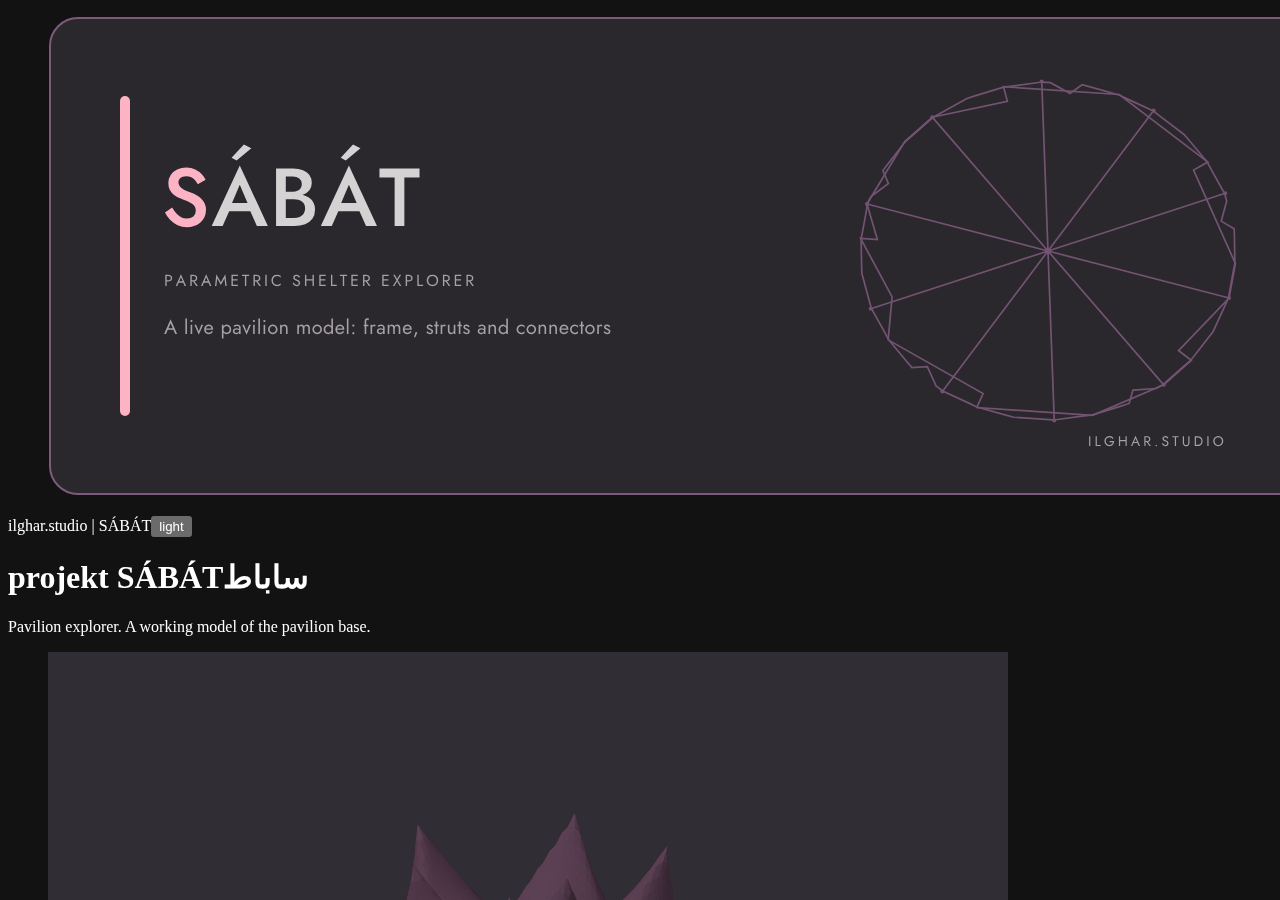
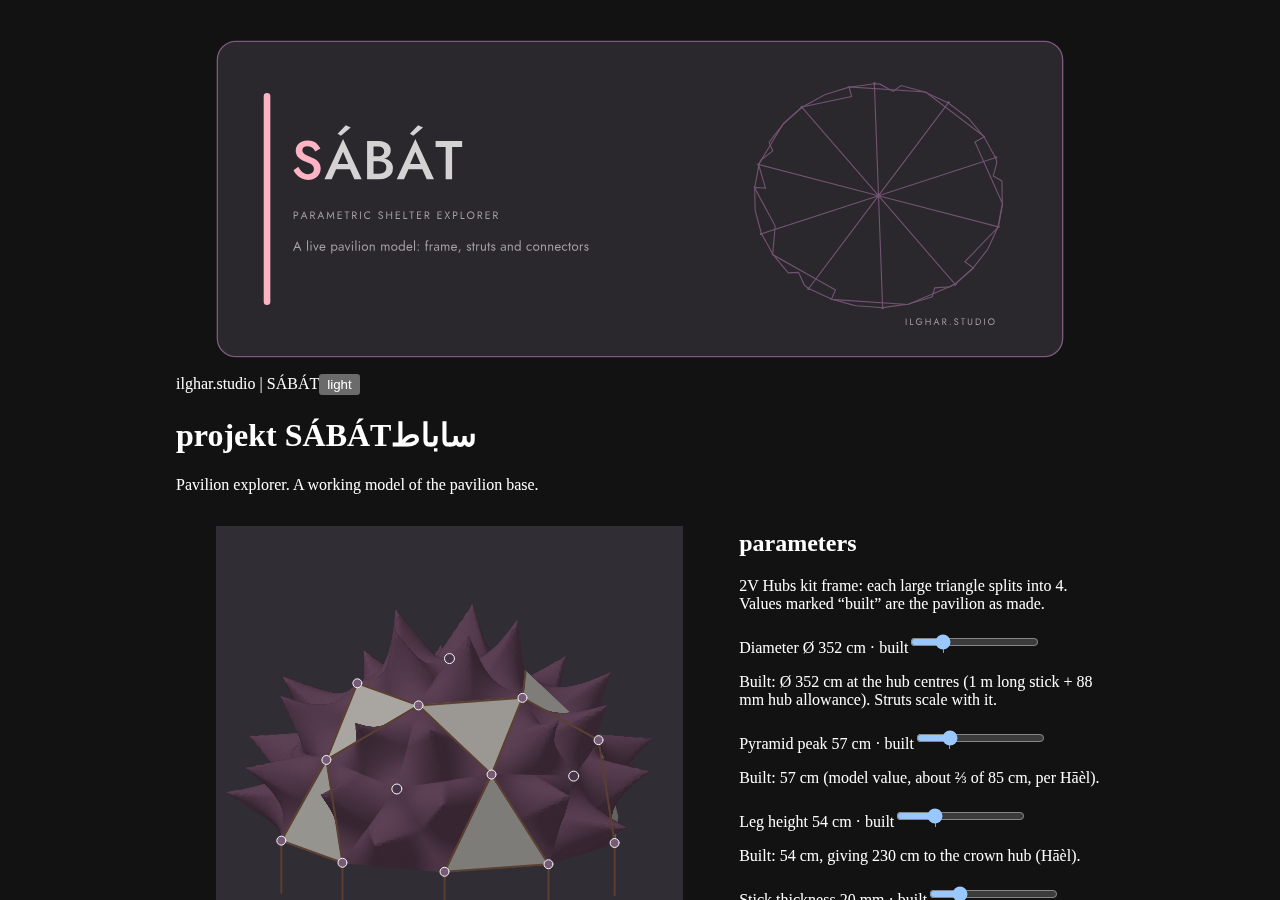
fix(demos/sabat): drop Fuller quote, dome→pavilion/frame; demo.css column; reshoot

diff --git a/public/demos/sabat/index.html b/public/demos/sabat/index.html
@@ -4,6 +4,7 @@
 <meta charset="utf-8">
 <meta name="viewport" content="width=device-width, initial-scale=1">
 <link rel="stylesheet" href="../../design/tokens.css">
+<link rel="stylesheet" href="demo.css">
 <style>
 @font-face{font-family:"Jost";font-style:normal;font-weight:300;font-display:swap;src:url("../../fonts/jost-latin-ext-300-normal.woff2") format("woff2");unicode-range:U+0100-02BA,U+02BD-02C5,U+02C7-02CC,U+02CE-02D7,U+02DD-02FF,U+0304,U+0308,U+0329,U+1D00-1DBF,U+1E00-1E9F,U+1EF2-1EFF,U+2020,U+20A0-20AB,U+20AD-20C0,U+2113,U+2C60-2C7F,U+A720-A7FF}
 @font-face{font-family:"Jost";font-style:normal;font-weight:300;font-display:swap;src:url("../../fonts/jost-latin-300-normal.woff2") format("woff2");unicode-range:U+0000-00FF,U+0131,U+0152-0153,U+02BB-02BC,U+02C6,U+02DA,U+02DC,U+0304,U+0308,U+0329,U+2000-206F,U+20AC,U+2122,U+2191,U+2193,U+2212,U+2215,U+FEFF,U+FFFD}
@@ -13,6 +14,18 @@
 @font-face{font-family:"Jost";font-style:normal;font-weight:500;font-display:swap;src:url("../../fonts/jost-latin-500-normal.woff2") format("woff2");unicode-range:U+0000-00FF,U+0131,U+0152-0153,U+02BB-02BC,U+02C6,U+02DA,U+02DC,U+0304,U+0308,U+0329,U+2000-206F,U+20AC,U+2122,U+2191,U+2193,U+2212,U+2215,U+FEFF,U+FFFD}
 @font-face{font-family:"Vazirmatn";font-style:normal;font-weight:100 900;font-display:swap;src:url("../../fonts/vazirmatn-fa.woff2") format("woff2");unicode-range:U+0600-06FF,U+200C-200D,U+FB50-FDFF,U+FE70-FEFF}
 img,svg,canvas,iframe{max-width:100%;height:auto}
+img,svg,canvas,iframe,figure{max-width:100%;height:auto}canvas#iso{width:100%!important;max-width:100%!important;height:auto!important}
+.hero img{width:100%;max-width:100%;height:auto}
+body,main{overflow-x:hidden;max-width:100%}
+.app{max-width:100%}
+picture,.hero-card{display:block;max-width:100%;width:100%;overflow:hidden}
+.hero-card img,picture img{max-width:100%!important;width:100%!important;height:auto!important}
+main{overflow-x:hidden;box-sizing:border-box}
+/* nuclear column */
+html,body{width:100%;max-width:100%;overflow-x:hidden}
+main{width:100%!important;max-width:960px!important;box-sizing:border-box!important;overflow-x:hidden}
+.hero-card,picture,.hero,figure,.app,.main3d,.panel,.intro,.conn{max-width:100%!important;width:100%;box-sizing:border-box}
+img,svg,canvas,iframe,video{max-width:100%!important;height:auto}
 </style>
 <title>SÁBÁT · pavilion explorer · ilghar.studio</title>
 <style>
@@ -22,7 +35,7 @@ img,svg,canvas,iframe{max-width:100%;height:auto}
 *{box-sizing:border-box}
 :root{--font-title:Jost,system-ui,sans-serif;--font-body:Jost,system-ui,sans-serif}
 body{margin:0;background:var(--canvas);color:var(--ink);font:400 16px/1.65 var(--font-body)}
-main{max-width:1120px;margin:0 auto;padding:40px 24px 56px}
+main{width:100%;max-width:960px;box-sizing:border-box;margin:0 auto;padding:40px 24px 56px}
 h1,h2,h3{font-family:var(--font-title);font-weight:400;text-transform:uppercase;letter-spacing:.18em;color:var(--title);margin:0}
 h1{font-size:2.3rem;line-height:1.15}
 h2{font-size:.95rem;font-weight:400;margin-bottom:12px;padding-bottom:8px;border-bottom:1px dotted var(--line)}
@@ -86,9 +99,9 @@ em{font-style:italic;color:var(--em)}
 /* v7 / v3.4: site column, glass + soft-shadow controls, drop caps */
 :root{--dc:#fcb4c4;--glass:rgba(249,250,251,.55);--glass-edge:rgba(255,255,255,.75);--sh-d:rgba(71,52,72,.16);--sh-l:rgba(255,255,255,.9);--well:rgba(71,52,72,.10)}
 [data-theme=dark]{--dc:#fcb4c4;--glass:rgba(48,45,52,.55);--glass-edge:rgba(255,255,255,.10);--sh-d:rgba(0,0,0,.38);--sh-l:rgba(255,255,255,.06);--well:rgba(0,0,0,.28)}
-main{max-width:448px;padding-left:16px;padding-right:16px}
-@media (min-width:768px){main{max-width:576px;padding-left:32px;padding-right:32px}}
-@media (min-width:1024px){main{max-width:672px}}
+main{width:100%;max-width:min(100%,960px);box-sizing:border-box;padding-left:16px;padding-right:16px}
+@media (min-width:768px){main{width:100%;max-width:min(100%,960px);box-sizing:border-box;padding-left:32px;padding-right:32px}}
+@media (min-width:1024px){main{max-width:960px}}
 .intro,.app,.counts,.grid{grid-template-columns:minmax(0,1fr)!important}
 .views{grid-template-columns:minmax(0,1fr)!important}
 /* rev 8 (Hāèl, 4 Nov): one column at every width, no illustrations side by side */
@@ -112,6 +125,18 @@ input[type=range]::-moz-range-track{height:8px;border-radius:8px;background:var(
 input[type=range]::-moz-range-thumb{width:20px;height:20px;border-radius:50%;background:var(--glass);border:1px solid var(--glass-edge);box-shadow:3px 3px 7px var(--sh-d),inset 0 0 0 5px var(--dc)}
 :focus-visible{outline:2px solid var(--dc)!important;outline-offset:3px}
 #cdraw svg{aspect-ratio:auto;height:auto}#cx3d{aspect-ratio:1/.72;cursor:grab}.conn{margin-bottom:32px}.conn table td.n{white-space:normal}#cparts tr[aria-current] td{color:var(--key)}
+img,svg,canvas,iframe,figure{max-width:100%;height:auto}canvas#iso{width:100%!important;max-width:100%!important;height:auto!important}
+.hero img{width:100%;max-width:100%;height:auto}
+body,main{overflow-x:hidden;max-width:100%}
+.app{max-width:100%}
+picture,.hero-card{display:block;max-width:100%;width:100%;overflow:hidden}
+.hero-card img,picture img{max-width:100%!important;width:100%!important;height:auto!important}
+main{overflow-x:hidden;box-sizing:border-box}
+/* nuclear column */
+html,body{width:100%;max-width:100%;overflow-x:hidden}
+main{width:100%!important;max-width:960px!important;box-sizing:border-box!important;overflow-x:hidden}
+.hero-card,picture,.hero,figure,.app,.main3d,.panel,.intro,.conn{max-width:100%!important;width:100%;box-sizing:border-box}
+img,svg,canvas,iframe,video{max-width:100%!important;height:auto}
 </style>
 </head>
 <body>
@@ -119,7 +144,7 @@ input[type=range]::-moz-range-thumb{width:20px;height:20px;border-radius:50%;bac
 <figure class="hero-card" style="margin:0 0 1.5rem">
 <picture>
   <source media="(prefers-color-scheme: dark)" srcset="hero-dark.svg">
-  <img src="hero-light.svg" width="1280" height="480" alt="SÁBÁT, Parametric Shelter Explorer: a live model of the pavilion's frame, struts and connectors, beside a spiked plan outline. ilghar.studio." style="width:100%;height:auto;border-radius:14px;display:block">
+  <img src="hero-light.svg" width="960" height="360" alt="SÁBÁT, Parametric Shelter Explorer: a live model of the pavilion's frame, struts and connectors, beside a spiked plan outline. ilghar.studio." style="width:100%;height:auto;border-radius:14px;display:block">
 </picture>
 </figure>
 
@@ -127,11 +152,11 @@ input[type=range]::-moz-range-thumb{width:20px;height:20px;border-radius:50%;bac
 <h1><span aria-label="projekt Sábát">projekt SÁBÁT</span><span class="fa" lang="fa">ساباط</span></h1>
 <p class="note" style="margin:6px 0 24px">Pavilion explorer. A working model of the pavilion base.</p>
 <section class="app">
-  <figure class="main3d"><canvas id="iso" width="960" height="960" tabindex="0" role="img" aria-label="3D view of the base with illustrative peaks. Drag, or use the arrow keys, to rotate."></canvas>
+  <figure class="main3d"><canvas id="iso" width="640" height="640" tabindex="0" role="img" aria-label="3D view of the base with illustrative peaks. Drag, or use the arrow keys, to rotate."></canvas>
         <figcaption>Drag or use the arrow keys to rotate. Knit drawn as a smooth tension surface.</figcaption></figure>
   <form class="panel" id="ctl" aria-label="Model parameters" onsubmit="return false">
     <h2>parameters</h2>
-    <div class="ctl"><p class="note">2V Hubs kit dome: each large triangle splits into 4. Values marked “built” are the pavilion as made.</p></div>
+    <div class="ctl"><p class="note">2V Hubs kit frame: each large triangle splits into 4. Values marked “built” are the pavilion as made.</p></div>
     <div class="ctl"><label for="dia">Diameter <output id="diaO" for="dia"></output></label><input id="dia" type="range" min="200" max="900" step="1" value="352" list="diaB"><datalist id="diaB"><option value="352"></option></datalist><p class="note">Built: Ø 352 cm at the hub centres (1 m long stick + 88 mm hub allowance). Struts scale with it.</p></div>
     <div class="ctl"><label for="peak">Pyramid peak <output id="peakO" for="peak"></output></label><input id="peak" type="range" min="0" max="250" step="1" value="57" list="peakB"><datalist id="peakB"><option value="57"></option></datalist><p class="note">Built: 57 cm (model value, about ⅔ of 85 cm, per Hāèl).</p></div>
     <div class="ctl"><label for="leg">Leg height <output id="legO" for="leg"></output></label><input id="leg" type="range" min="0" max="200" step="1" value="54" list="legB"><datalist id="legB"><option value="54"></option></datalist><p class="note">Built: 54 cm, giving 230 cm to the crown hub (Hāèl).</p></div>
@@ -160,7 +185,7 @@ input[type=range]::-moz-range-thumb{width:20px;height:20px;border-radius:50%;bac
 </section>
 <section class="conn" aria-labelledby="connH">
   <h2 id="connH">connectors</h2>
-  <p class="note">Each connector is drawn and modelled from the values above. Move the sliders and the angles, bores and lengths recalculate. At the built values every part matches the stage-1 originals. Tags: S product spec or drawing, H Hāèl, C computed from the dome, A assumption.</p>
+  <p class="note">Each connector is drawn and modelled from the values above. Move the sliders and the angles, bores and lengths recalculate. At the built values every part matches the stage-1 originals. Tags: S product spec or drawing, H Hāèl, C computed from the frame, A assumption.</p>
   <div id="cpick" role="group" aria-label="Choose a connector" style="display:flex;flex-wrap:wrap;gap:8px;margin:12px 0 16px"><button type="button" data-k="hub5">5-way hub</button><button type="button" data-k="hub6">6-way hub</button><button type="button" data-k="corner">L corner 20A</button><button type="button" data-k="tee">T tee 2A</button><button type="button" data-k="ball">Ball connector</button><button type="button" data-k="peak">Peak connector</button></div>
   <figure><div id="cdraw"></div><figcaption><span id="cname"></span>: technical drawing, front, side and top. Dimensions in mm, angles in degrees. Dashed lines are bores.</figcaption></figure>
   <figure style="margin-top:16px"><canvas id="cx3d" tabindex="0" role="img" aria-label="3D model of the selected connector. Drag to orbit, scroll to zoom."></canvas><figcaption>3D model, live. Drag to orbit, scroll to zoom. <button type="button" id="cstl" style="margin-left:8px">Download STL</button></figcaption></figure>
@@ -168,12 +193,11 @@ input[type=range]::-moz-range-thumb{width:20px;height:20px;border-radius:50%;bac
     <p class="note">Hub and corner angles come from the 2V geometry, so they stay the same at every diameter; only the stick lengths grow. The peak and tee angles follow the peak height against the triangle size. Bores and sizes follow the stick thickness. The STL holds separate shells, not one welded solid.</p></div>
   <div class="panel" style="margin-top:16px"><h2>parts for this version</h2><table id="cparts"><thead><tr><th>Connector</th><th class="n">Count</th></tr></thead><tbody></tbody></table></div>
 </section>
-<figure class="hero"><img src="sabat-pavilion.jpg" width="1200" height="744" loading="eager" alt="The SÁBÁT pavilion on a forest meadow: a pavilion frame on wooden legs, its triangles raised into dark knitted peaks, with grey fabric flaps open at the front and rugs and green cushions laid out inside."><figcaption>SÁBÁT pavilion – front view <span aria-hidden="true">|</span> Ø 370 × H 230 cm <span aria-hidden="true">|</span> Photo: Hāèl, portfolio 2024</figcaption></figure>
+<figure class="hero"><img src="sabat-pavilion.jpg" width="960" height="595" loading="eager" alt="The SÁBÁT pavilion on a forest meadow: a pavilion frame on wooden legs, its triangles raised into dark knitted peaks, with grey fabric flaps open at the front and rugs and green cushions laid out inside."><figcaption>SÁBÁT pavilion – front view <span aria-hidden="true">|</span> Ø 370 × H 230 cm <span aria-hidden="true">|</span> Photo: Hāèl, portfolio 2024</figcaption></figure>
 <section class="intro" aria-label="About the pavilion">
   <div>
     <blockquote>“SÁBÁT”, a structure commonly found in Yazd, Iran, series of interconnected arches or vaulted ceilings, harmonious blend of hospitality, grace, and cultural resonance.<cite>Hāèl, master thesis, 2024</cite></blockquote>
-    <blockquote>Drawing on the technical design of Buckminster Fuller’s domes &amp; the mosaic works of historical Iranian architecture, I observed their overlap in the creation of a modular system.<cite>Hāèl, portfolio 2024</cite></blockquote>
-    <p>The pavilion has a modular dome base. Six white hubs, the crown and five round the side, each sit at the centre of five knitted pyramids, a star of peaks. The grey triangles between the stars are flat tarps. One side star can be left out to open an entrance. The dome stands on short legs. Move the sliders to see how the base changes, and how many struts and connectors each version needs.</p>
+    <p>The pavilion has a modular frame base. Six white hubs, the crown and five round the side, each sit at the centre of five knitted pyramids, a star of peaks. The grey triangles between the stars are flat tarps. One side star can be left out to open an entrance. The pavilion stands on short legs. Move the sliders to see how the base changes, and how many struts and connectors each version needs.</p>
   </div>
   <aside class="facts" aria-label="Built pavilion">
     <h2>the built pavilion</h2>
@@ -187,7 +211,7 @@ input[type=range]::-moz-range-thumb{width:20px;height:20px;border-radius:50%;bac
 </main>
 <script src="sabat-geom.js?v=8"></script>
 <script src="sabat-cover.js?v=9"></script>
-<script src="sabat-view.js?v=10"></script>
+<script src="sabat-view.js?v=11"></script>
 <script type="importmap">{"imports":{"three":"./vendor/three/three.module.js"}}</script>
 <script src="sabat-connectors-geom.js?v=1"></script>
 <script type="module" src="sabat-connectors.js?v=1"></script>

diff --git a/public/demos/sabat/sabat-view.js b/public/demos/sabat/sabat-view.js
@@ -40,9 +40,9 @@ function compute(){
   const k=sk/26.9;
   const sw=(g,sq)=>g?`<span class="sw${sq?" sq":""}" style="background:${GRP[g]}" aria-hidden="true"></span>`:`<span class="sw none" aria-hidden="true"></span>`;
   $("con").tBodies[0].innerHTML=[["5-way hub",c.hub5,"hub5"],["6-way hub",c.hub6,"hub6"],["L-shaped Rohrverbinder, Eckstück durchgehend 20A, 20 mm bores, at the entrance",c.corner,"corner",1],["T-shaped Rohrverbinder, T-Stück kurz 2A (1 pyramid strut)",c.teeShort,"tee"],["T-shaped Rohrverbinder, T-Stück 2A with side outlet (2 pyramid struts)",c.teeSide,"tee"],["Three-arm peak connector, 3D-printed, held under the cover",c.peaks,"peak"],["Knitted pyramid",c.pyramid],["Grey tarp triangle",c.flat],["Entrance (open triangles)",c.entrance],[`Leg (${lg} cm)`,c.legs]].map(([a,b,g,sq])=>`<tr><td>${sw(g,sq)}${a}</td><td class="n">${b}</td></tr>`).join("");
-  $("conN").textContent=`Frame: Hubs kit 2V dome. Rohrverbinder after the cast clamps 6080Z20 (L) and 6080Z02 (T), scaled to a ${sk} mm stick (corner a ≈ ${f1(40*k)} mm, tee a ≈ ${f1(41*k)} mm). ${st.open?`The ${c.corner} L corners sit at the foot of the entrance, where the ring stick runs through and one frame stick rises.`:"L corners are only needed when the entrance is open."} ${st.open?`Star ${st.star} removed for the entrance: ${c.pyramid} pyramids.`:`All ${c.stars} stars closed: ${c.pyramid} pyramids.`}`;
+  $("conN").textContent=`Frame: Hubs kit 2V frame. Rohrverbinder after the cast clamps 6080Z20 (L) and 6080Z02 (T), scaled to a ${sk} mm stick (corner a ≈ ${f1(40*k)} mm, tee a ≈ ${f1(41*k)} mm). ${st.open?`The ${c.corner} L corners sit at the foot of the entrance, where the ring stick runs through and one frame stick rises.`:"L corners are only needed when the entrance is open."} ${st.open?`Star ${st.star} removed for the entrance: ${c.pyramid} pyramids.`:`All ${c.stars} stars closed: ${c.pyramid} pyramids.`}`;
   $("big").innerHTML=`Ø ${D} × H ${Math.round(c.hubH)} cm`;
-  $("hOut").textContent=`Height to the crown hub ${f1(c.hubH)} cm (dome ${f1(res.R)} + legs ${lg}); to the crown peak tip ${f1(c.tipH)} cm. Footprint across the peak tips Ø ${f1(c.tipD)} cm. Built: Ø 352 × 230 cm.`;
+  $("hOut").textContent=`Height to the crown hub ${f1(c.hubH)} cm (frame ${f1(res.R)} + legs ${lg}); to the crown peak tip ${f1(c.tipH)} cm. Footprint across the peak tips Ø ${f1(c.tipD)} cm. Built: Ø 352 × 230 cm.`;
   draw();
 }
 function draw(){if(!res)return;plan();elev();iso();}

diff --git a/public/demos/sabat/demo.css b/public/demos/sabat/demo.css
@@ -1,0 +1,11 @@
+/* sabat demo layout — linked (CSP style-src 'self' blocks inline <style>) */
+html, body { width: 100%; max-width: 100%; overflow-x: hidden; margin: 0; }
+main { width: 100%; max-width: 960px; margin: 0 auto; padding: 24px 16px 56px; box-sizing: border-box; overflow-x: hidden; }
+img, svg, canvas, iframe, video, picture, figure { max-width: 100%; height: auto; display: block; }
+.hero-card, .hero, .main3d, .app, .panel, .intro, .conn, .views, .counts { max-width: 100%; box-sizing: border-box; }
+.hero-card img, .hero img, picture img { width: 100%; max-width: 100%; height: auto; border-radius: 14px; }
+canvas#iso, canvas#cx3d { width: 100% !important; max-width: 100% !important; height: auto !important; }
+.app { display: grid; gap: 16px; }
+@media (min-width: 860px) {
+  .app { grid-template-columns: 1.2fr 0.8fr; }
+}
